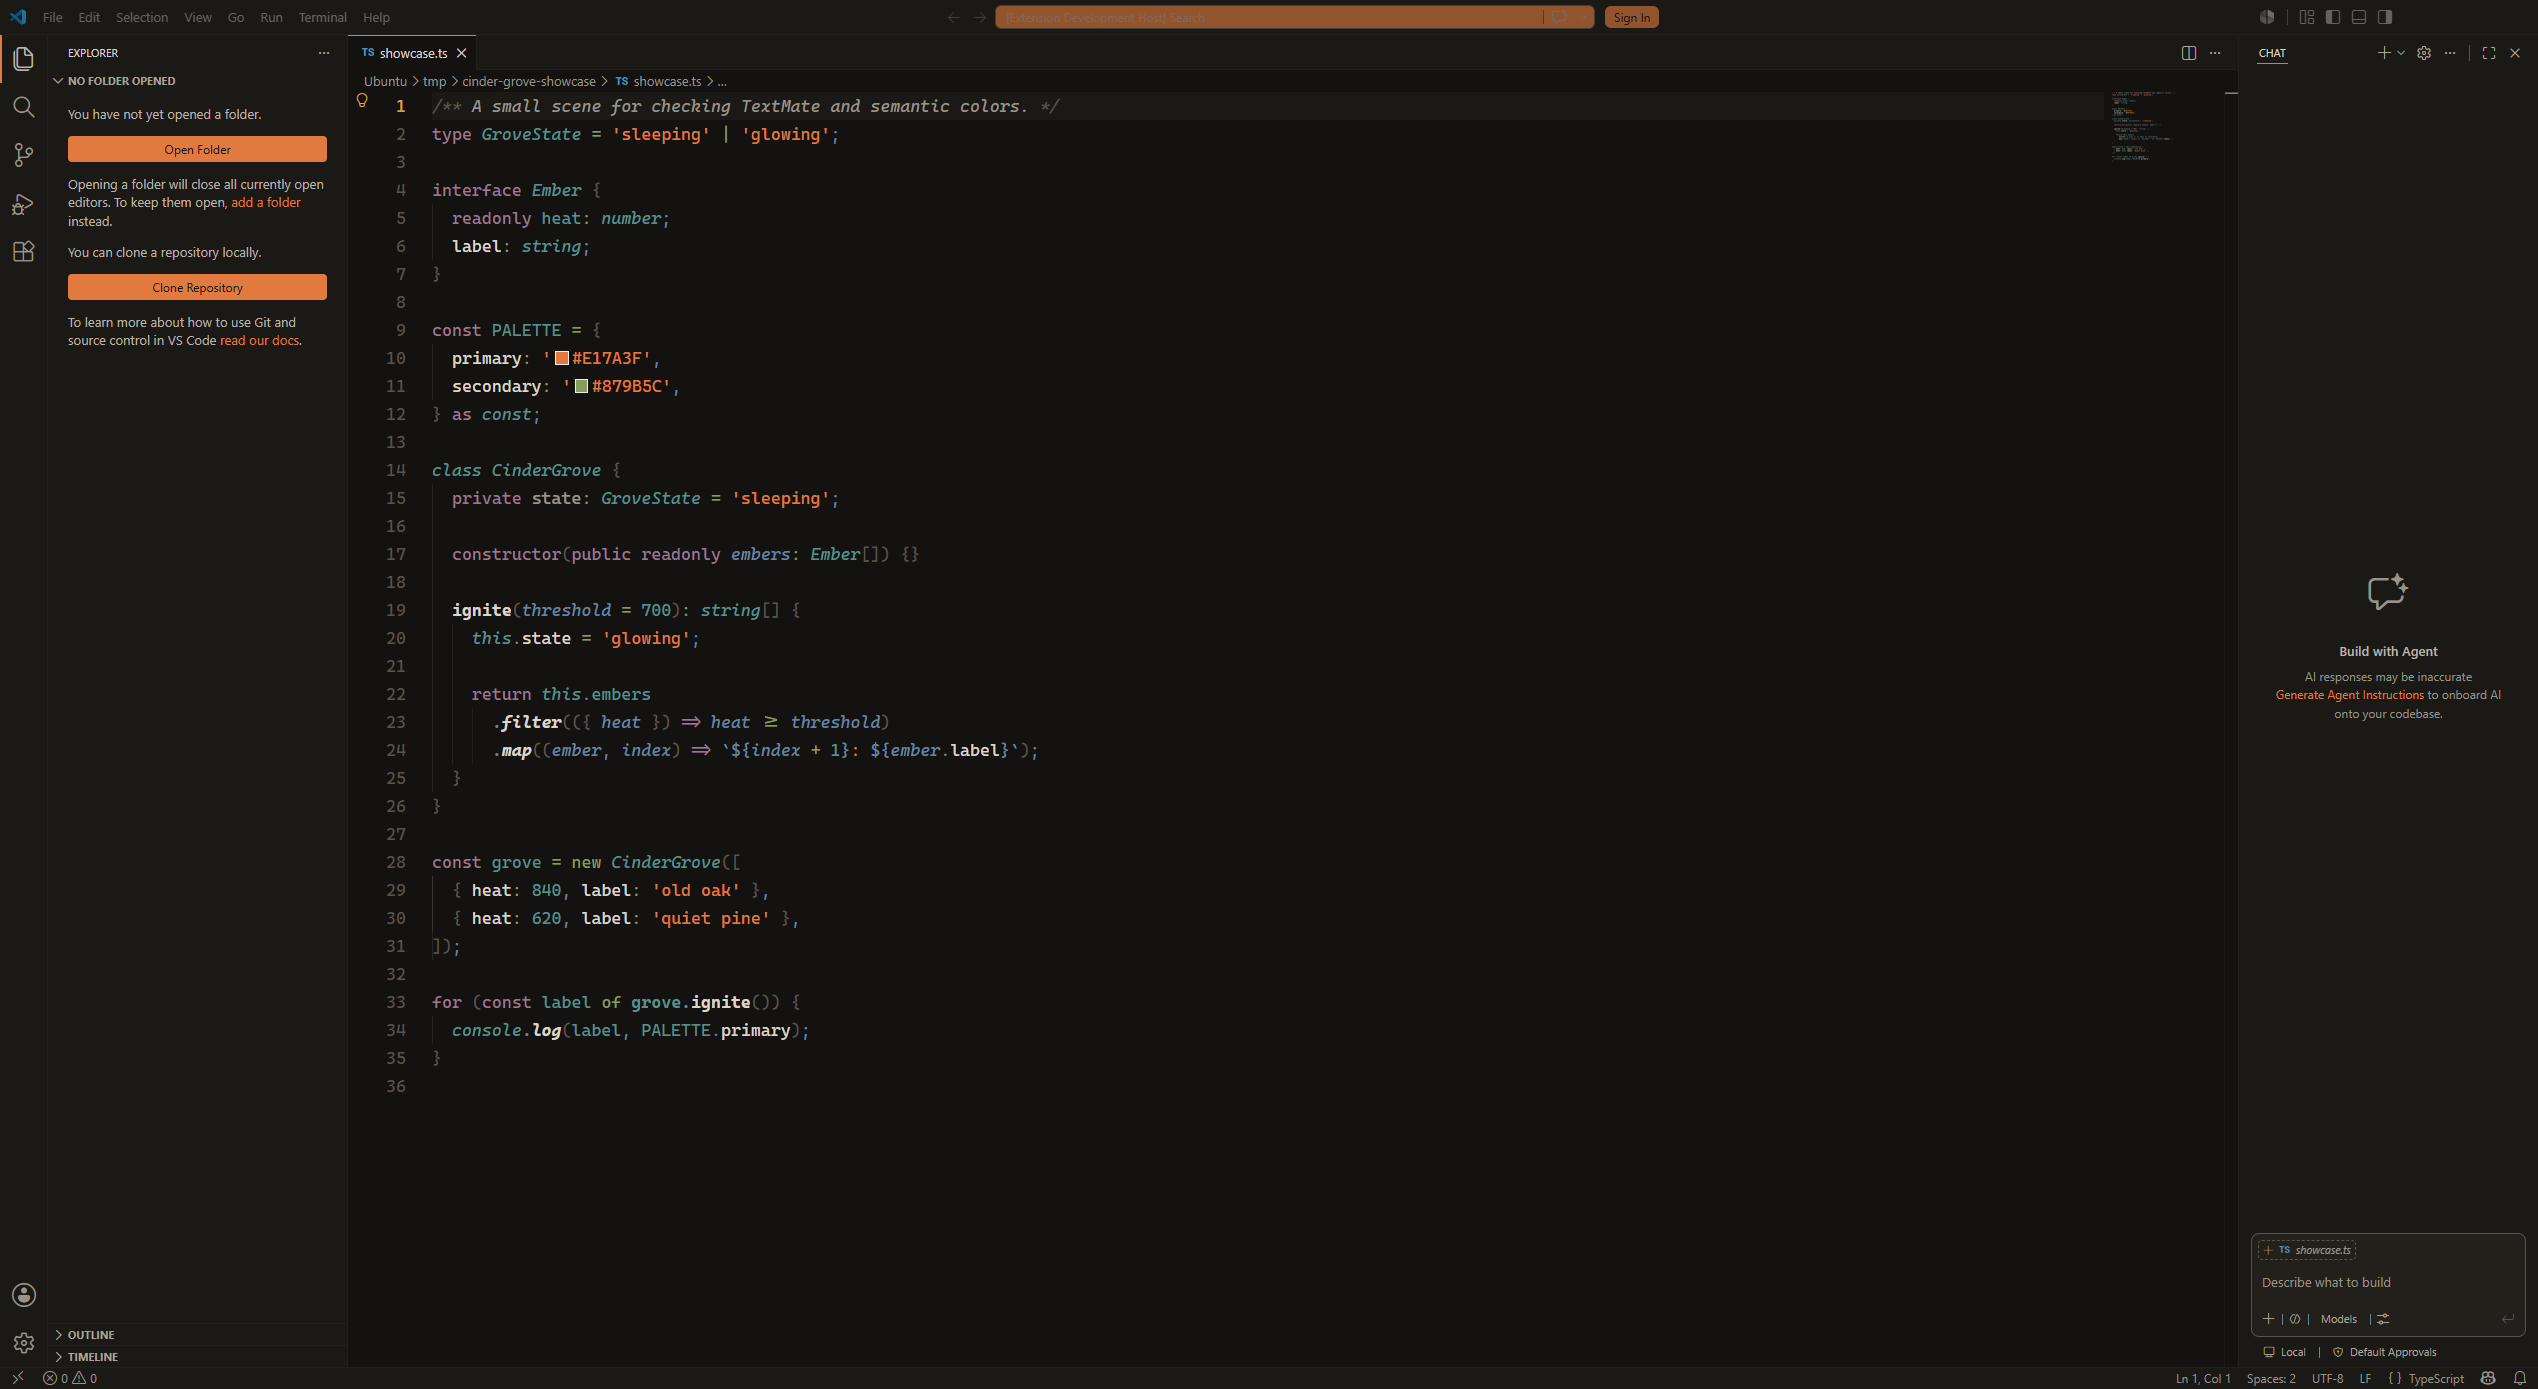
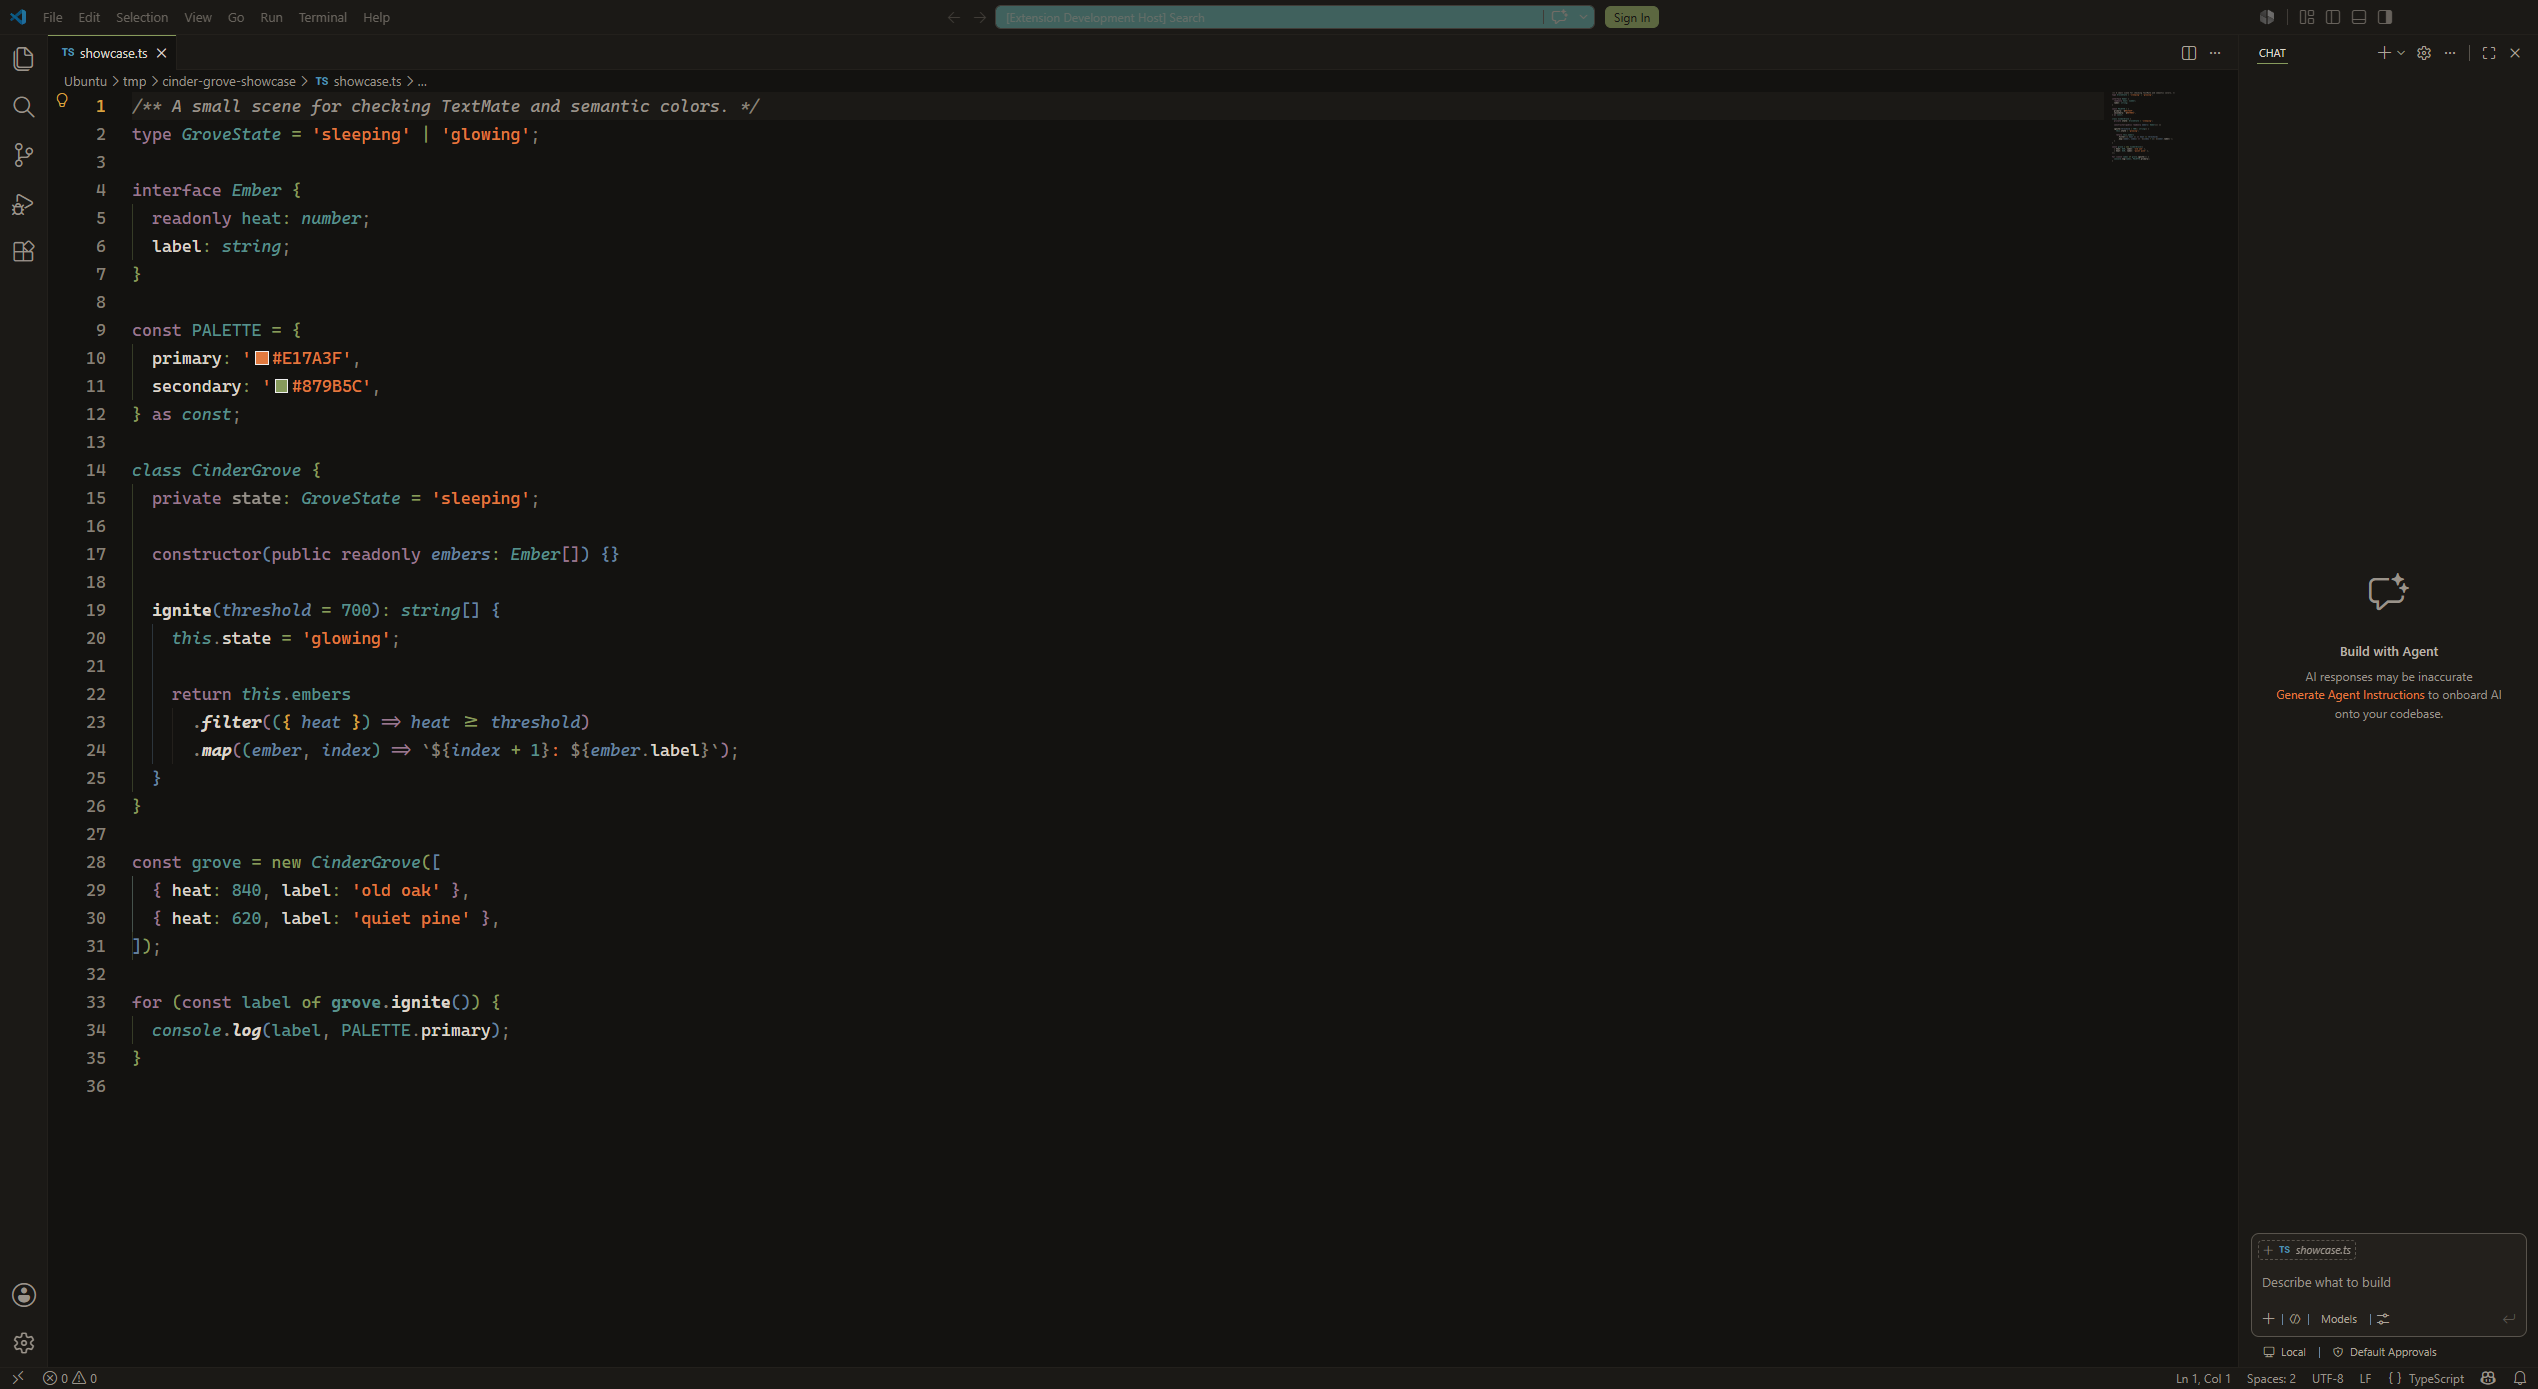
update palette documentation and preview

diff --git a/CHANGELOG.md b/CHANGELOG.md
@@ -4,3 +4,4 @@
 
 - Initial Cinder Grove theme release for Visual Studio Code.
 - Raised comments, punctuation, line numbers, and muted editor UI to accessible contrast.
+- Rebalanced workbench accents toward grove green and the full canonical palette.

diff --git a/README.md b/README.md
@@ -28,6 +28,7 @@ code --install-extension aileks.cinder-grove
 | `background` | `#131210` | Editor background |
 | `container` | `#1B1916` | Panels, sidebars, and popovers |
 | `surface` | `#23201C` | Raised and interactive regions |
+| `focused_surface` | `#34312D` | Neutral focused and debugging controls |
 | `overlay` | `#58534C` | Selections and active controls |
 | `text_muted` | `#58534C` | Disabled and lowest-emphasis text |
 | `muted_dim` | `#706A62` | Dimmed editor metadata |